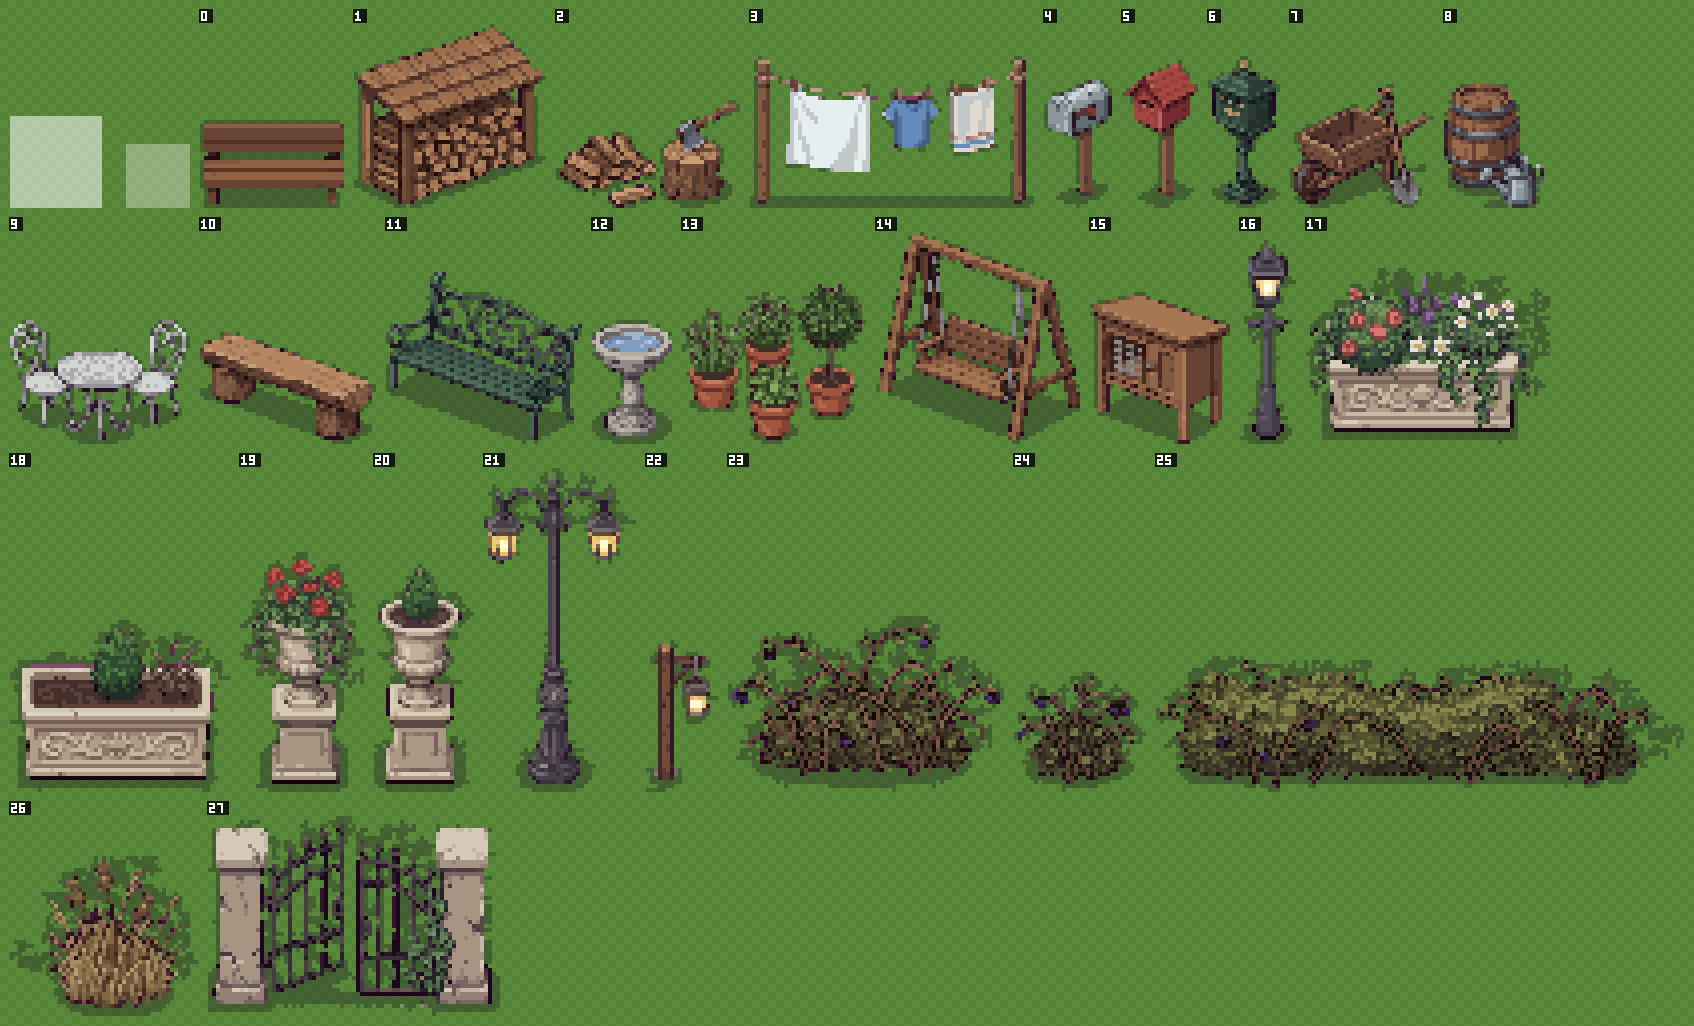
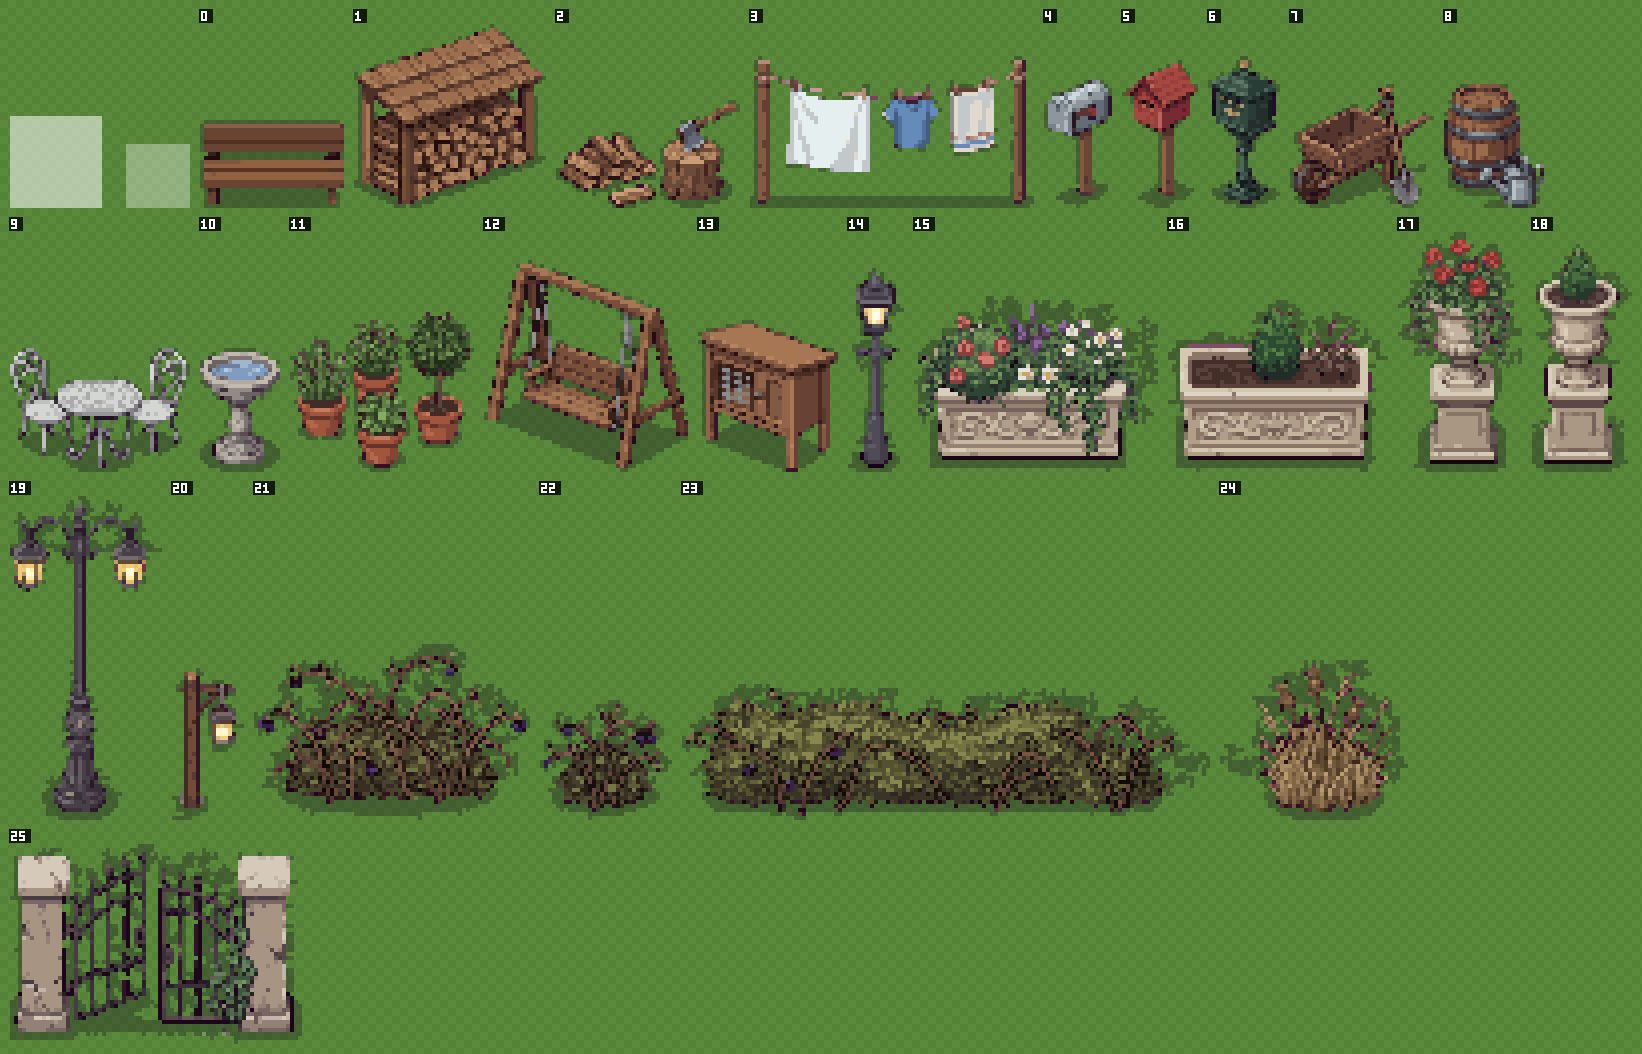
avant reprise

diff --git a/components/ferme/planche3.js b/components/ferme/planche3.js
@@ -393,85 +393,6 @@ export const PLANCHE3 = {
       "...............~~~~~~~81~~~~~~...............",
       ".................~~~~~~~~~~..................",
     ] },
-  benchLog: { w: 44, h: 28, foot: 26,
-    pal: ["#1d0c0c", "#2a081f", "#32181d", "#462c24", "#4f2538", "#583a2c", "#683b46", "#674635", "#7a553f", "#855f48", "#a37757", "#b48762", "#bb916c", "#c79e7b"],
-    rows: [
-      ".....~89.~..................................",
-      ".....8;;=<;.................................",
-      ".~3<<;:8;;;;;:~~............................",
-      ".;;;;;;;;:;:;;;;4~..........................",
-      "5<=;;;;:;;;<;;;;;;;:1~......................",
-      "6777==;;:;;;;::;;;;;;;96~...................",
-      "~333357=<<9:;;;;;:;;;;;<<9..................",
-      ".233577359=<;;;;;;;:;;;;;;<<;~~.............",
-      "..~003577579==;;;;;;;;;;;;;;<<<:.~..........",
-      "...5999225773578<;;;:;;;;;;;::<<;;3.........",
-      "...785333233777577:=<;;;;;;;;;::;;;;;~~.....",
-      "...798795330335757779;<<;;;:;;;;::;<<<::~~..",
-      "...79889833332~13335775558=<;::;;;;:;<<<<<..",
-      "..~78998873752..~~.233355375=;;:;;:;;;:7;87~",
-      "~~~79988877732~~......23575358<<;;<:9<<8898~",
-      "~~~5888857733~~~~~~....~~2355777:==<<789987.",
-      ".~~~27595773~~~~~~~~~~....~~3377775;8879884.",
-      "....~~1111~~~~~~~~~~~~~~~....0237523787999~.",
-      "........~~~~~~~~~~~~~~~~~~~~.383035397778~..",
-      "...........~~~~~~~~~~~~~~~~~~73358203595~...",
-      "..............~~~~~~~~~~~~~~~77857333332....",
-      ".................~~~~~~~~~~~~87979533331....",
-      "...................~~~~~~~~~~58989753531~...",
-      "......................~~~~~~~78798733550~~~.",
-      ".........................~~~~57999777534~~~.",
-      "............................~2597827732~~~..",
-      "..............................~11111~~~~....",
-      ".................................~~~~~......",
-    ] },
-  benchIron: { w: 49, h: 43, foot: 41,
-    pal: ["#240f29", "#131c1a", "#3a213e", "#22312b", "#2f2a35", "#2e3d38", "#384942", "#4d4d52", "#40564a", "#476352", "#4e6d58", "#5a7362", "#657f6b", "#6d9473"],
-    rows: [
-      "............6<2..................................",
-      "...........~=36..................................",
-      "...........~:3...................................",
-      "...........256~~.................................",
-      "...........9168<.~...............................",
-      "...........950.13:<~~~~~~~.......................",
-      "..........~98046851668888:7.~....................",
-      "...........8815...8~~~.~01358:~~.................",
-      "...........58.8...~6~..~8248~~49.~...............",
-      "..........838.34~..~7.~8~..47.~63;~..............",
-      "..........9186007...4.~4.2~~8:42617:~............",
-      ".........81118..7...~86~~9..66~.~7~4;~...........",
-      ".......;935116..~...~56~.47907......~9;~.........",
-      ".~2;8544~.;1045~~75.539~...~~727~~8..~~8:4~...~<3",
-      ".7;3~~~...;18636607.~28..67~.~77.~8..~~516;;.~539",
-      "~<.66~....94.~466268..47.5~7.....~6.~75004856;<4~",
-      "~8..6....811...~2383..~5..~966:~.~627~....2506;0.",
-      "~5.06~~5838652~...~466008.~89..~.284.....~~6118..",
-      ".0016585686588862~...~16618.4~...8997~...264816..",
-      "..~8335659886588864~...~.664084274~~27~.757.816..",
-      ".~:586699966:986598884~~..~01651...7~87~7~226:4..",
-      ".23::99859:965998856:9882~~..~0672~8387~~.~6894..",
-      ".41556;:::55998639886599865....~20651~~7~.28394..",
-      "~:4.~~455::9985:9965:988599886...~~.48719861:44..",
-      "~:2....~0356:::939:9939:98669888.~~..~06615;36~..",
-      "~:2....~~~~0556;:9859:9855:995598884.~~:;84118~..",
-      "~:2..~~~~~~~~~455;::953:9985:99959995:953~~~18~..",
-      "~:2.~~~~~~~~~~~~1539:::939:993699863;3163~~.55~..",
-      "~91~~~~~~~~~~~~~~~~0359;::956:9935:96163688495...",
-      "~6~~~~~~~~~~~~~~~~~~~~2559:9993:99885835135835...",
-      ".~~~~~~~~~~~~~~~~~~~~~~~~0559:::658155561:5435...",
-      ".....~~~~~~~~~~~~~~~~~~~~~~0355::996113355..55...",
-      ".......~~~~~~~~~~~~~~~~~~~~~~2055::::1934~..55...",
-      ".........~~~~~~~~~~~~~~~~~~~~~~~~0565:4.....65...",
-      ".............~~~~~~~~~~~~~~~~~~~~~~0150~~...66~..",
-      "................~~~~~~~~~~~~~~~~~~~~:4~~~~~~~5~..",
-      "..................~~~~~~~~~~~~~~~~~~90~~~~~~~52..",
-      ".....................~~~~~~~~~~~~~~~90~~~~~~~~~..",
-      "........................~~~~~~~~~~~~90~~~~~~~....",
-      "..........................~~~~~~~~~~90~~~~~......",
-      ".............................~~~~~~~90~~~........",
-      "................................~~~780~..........",
-      "..................................~..~...........",
-    ] },
   birdbath: { w: 20, h: 31, foot: 28,
     pal: ["#270724", "#42323e", "#574d53", "#6a6363", "#7c7573", "#6d80a1", "#938a85", "#809dc1", "#b3aba1", "#a0b6ca", "#c2b9b1", "#aecae9"],
     rows: [

diff --git a/CLAUDE.md b/CLAUDE.md
@@ -7,7 +7,7 @@ chronologique inversé : c'est de l'**histoire**, pas de l'orientation.
 ---
 ## ⏭ REPRISE — SI GUILLAUME DIT SEULEMENT « REPRENDS LE TRAVAIL », C'EST ICI
 
-### 2026-09-29 — saules, bug Tristan/Jérôme, lampadaires, bancs, allée hantée livrés ; la planche 3 est importée, à brancher
+### 2026-09-29 — saules, bug Tristan/Jérôme, lampadaires, bancs, allée hantée livrés ; la planche 3 est importée en données (rien de branché) ; DEMANDER à Guillaume quoi implémenter
 
 Checklist (✅/⬜) au tableau des phases de `components/ferme/README.md`, récits en tête du même fichier.
 Cadre : personnages ÉVOCATEURS ; monde, végétation, faune, bâtiments soignés à fond. ⚠ **Pour ce
@@ -108,17 +108,21 @@ aucune végétation dessinée en code — c'est le feuillage en touffes procédu
 
 ### ⏭ ACTION SUIVANTE
 
-**La planche 3 est REÇUE ET IMPORTÉE (2026-09-29, nuit ; récit en tête de `components/ferme/README.md`)** :
-`tools/import-planche3.mjs` → `components/ferme/planche3.js` (28 sprites ; `'~'` = l'ombre violette de Gemini,
-`foot` = la dernière rangée de l'objet ; JPG lus par `sips`), planche de contrôle `tools/out/planche3-importee.png`.
-**RIEN n'est branché dans le jeu.** Dans cet ordre, avec Guillaume : (1) trancher ce qu'on garde (boîte aux lettres
-en tôle à drapeau ; deux bancs dessinés en trois quarts, le rustique et celui en fonte) ;
-(2) **régler la TAILLE en jeu, à côté d'un personnage** — tout arrive grand, l'échelle étant celle du banc chunky
-du jeu (boîtes 2,1 à 2,7 m, vases 4 m, candélabre 5,9 m) : `step` par objet dans le catalogue ; (3) le rejoueur
-(`planche3Sprite` sur le modèle de `planche2Sprite`, `'~'` semi-transparent, pose par `foot`) et `TOWN_PROP_ART` /
-`townPropBox` étendus à `PLANCHE3` ; (4) le placement : jardins vécus par rang (par hachage de l'adresse, jamais
-sur une allée, un portail ni une case où l'on s'arrête), jardinières de la place (été, hiver), un lampadaire par
-rang (`townRankAt` du lieu de la lampe), ronces et portail rouillé de la maison hantée. Chaque sprite se regarde
+**⚠ À LA REPRISE, NE RIEN IMPLÉMENTER DE TA PROPRE INITIATIVE : DEMANDE À GUILLAUME QUOI FAIRE, IL LE DIRA**
+(ordre du 2026-09-29, fin de séance : « il devra me le demander à la prochaine session »). Ce qui suit est un
+état des lieux pour lui poser la question, PAS un plan à dérouler.
+**La planche 3** (récit en tête de `components/ferme/README.md`) : reçue (`refs/planche3-*.jpg`) et importée en
+données — `tools/import-planche3.mjs` → `components/ferme/planche3.js` (26 sprites ; `'~'` = l'ombre violette de
+Gemini, `foot` = dernière rangée de l'objet ; JPG lus par `sips`) + `tools/out/planche3-importee.png`. **RIEN n'est
+branché dans le jeu.** Décidé : **les deux bancs de la planche (rustique, fonte) sont écartés** — « les bancs du
+jeu sont très bien comme ils sont ». ⚠ Guillaume a dit « on importe pas tout de suite » APRÈS que l'import avait
+déjà tourné, puis « on en reparle » : **lui demander s'il garde ces fichiers générés ou s'il les fait retirer**
+(les JPG restent, l'import se relance en une commande). Non tranché : la boîte aux lettres en tôle à drapeau (elle
+lit américaine). Si on branche un jour : la TAILLE se règle EN JEU à côté d'un personnage — tout arrive grand,
+l'échelle étant celle du banc chunky du jeu (boîtes 2,1 à 2,7 m, vases 4 m, candélabre 5,9 m), `step` par objet
+dans le catalogue ; puis le rejoueur (`planche3Sprite` sur le modèle de `planche2Sprite`, `'~'` semi-transparent,
+pose par `foot`), `TOWN_PROP_ART` / `townPropBox` étendus à `PLANCHE3`, puis le placement (jardins par rang,
+jardinières de la place, un lampadaire par rang, ronces et portail de la maison hantée). Chaque sprite se regarde
 en jeu le jour où on le pose (§9). **Les commerces (café, boulangerie, restaurant) restent une séance de
 conception à part** (quelle fonction, quel bâtiment converti ; §2 : LISTER et ATTENDRE).
 Intégrer au fil de l'eau ses images si elles tombent dans `refs/`.

diff --git a/components/ferme/README.md b/components/ferme/README.md
@@ -3,13 +3,14 @@
 ## 2026-09-29 (nuit) — LA PLANCHE 3, REÇUE ET IMPORTÉE (PAS ENCORE DANS LE JEU)
 
 Guillaume a déposé `refs/planche3-jardins.jpg` et `refs/planche3-place.jpg` : **des JPG, Gemini ne lui offre
-pas d'autre export**. À l'œil : 28 objets (dont les deux étalons), la facture des deux premières planches
+pas d'autre export**. À l'œil : 28 objets (dont les deux étalons ; 26 importés, voir plus bas), la facture des deux premières planches
 est tenue, le grain de pixel aussi. Écartés ou à trancher : un petit panneau de planches sur tréteau que
 personne n'avait demandé (B, en bas au milieu — jeté, aucune fonction) ; la boîte aux lettres en tôle à
-drapeau rouge, qui lit américaine dans un village à colombages ; le banc rustique et le banc en fonte verte,
-dessinés en trois quarts alors que le banc du jeu est de face (le jeu n'a qu'une
-orientation par sprite).
-- **`tools/import-planche3.mjs` → `planche3.js`** (28 sprites, `PLANCHE3`) + `tools/out/planche3-importee.png`
+drapeau rouge, qui lit américaine dans un village à colombages ; le banc rustique et le banc en fonte verte, **écartés par Guillaume** (« les bancs sont très bien
+comme ils sont ») : non importés, seul le banc ÉTALON est gardé pour l'échelle. Reste à trancher : la boîte aux
+lettres en tôle. **Guillaume a dit « on importe pas tout de suite » après que l'import avait tourné, puis « on en
+reparle »** : garder ou retirer `planche3.js` est une question ouverte.
+- **`tools/import-planche3.mjs` → `planche3.js`** (26 sprites, `PLANCHE3`) + `tools/out/planche3-importee.png`
   (×4 sur herbe, avec une règle : personnage de 23 px, case de 16). Le format est celui des planches 1 et 2,
   plus `'~'` (l'OMBRE que Gemini a peinte, violet foncé — pas grise) et `foot` (dernière rangée de l'objet).
   JPG lu par `sips` (aucune dépendance) ; fond pris par la TEINTE (`min(r,b) − g`, le magenta bruité mesure
